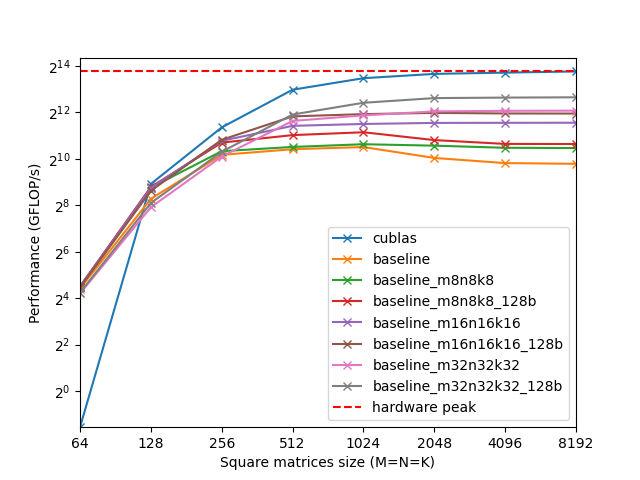
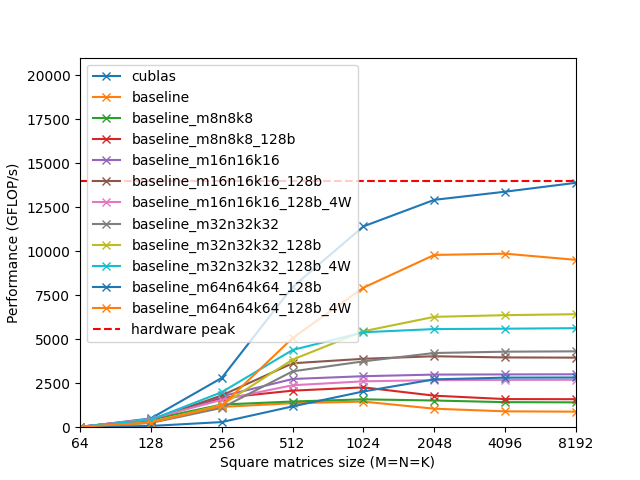
4W versions

diff --git a/plot.py b/plot.py
@@ -12,8 +12,12 @@ FILES = [
     "baseline_m8n8k8_128b",
     "baseline_m16n16k16",
     "baseline_m16n16k16_128b",
+    "baseline_m16n16k16_128b_4W",
     "baseline_m32n32k32",
     "baseline_m32n32k32_128b",
+    "baseline_m32n32k32_128b_4W",
+    "baseline_m64n64k64_128b",
+    "baseline_m64n64k64_128b_4W",
 ]
 y_min = float("inf")
 x_min = float("inf")
@@ -40,9 +44,9 @@ for file_name in FILES:
     plt.plot(xs, ys, label=file_name, marker="x")
 
 plt.xlim(x_min, x_max)
-plt.ylim(y_min, HARDWARE_PEAK * 1.50)
+plt.ylim(0, HARDWARE_PEAK * 1.50)
 plt.xscale("log", base=2)
-plt.yscale("log", base=2)
+# plt.yscale("log", base=2)
 plt.hlines(
     y=HARDWARE_PEAK,
     xmin=x_min,
